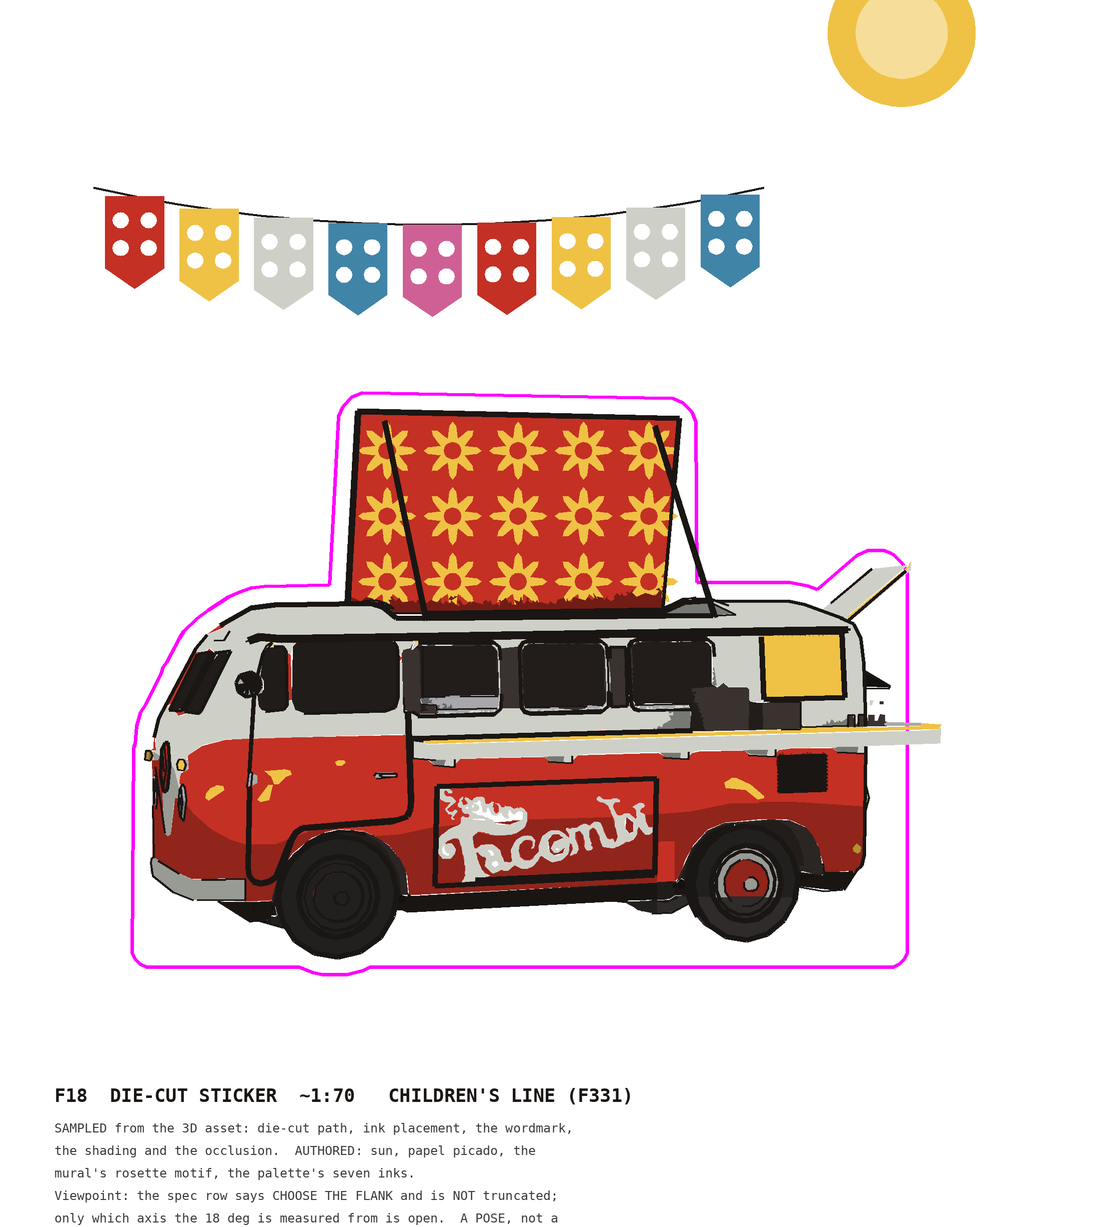
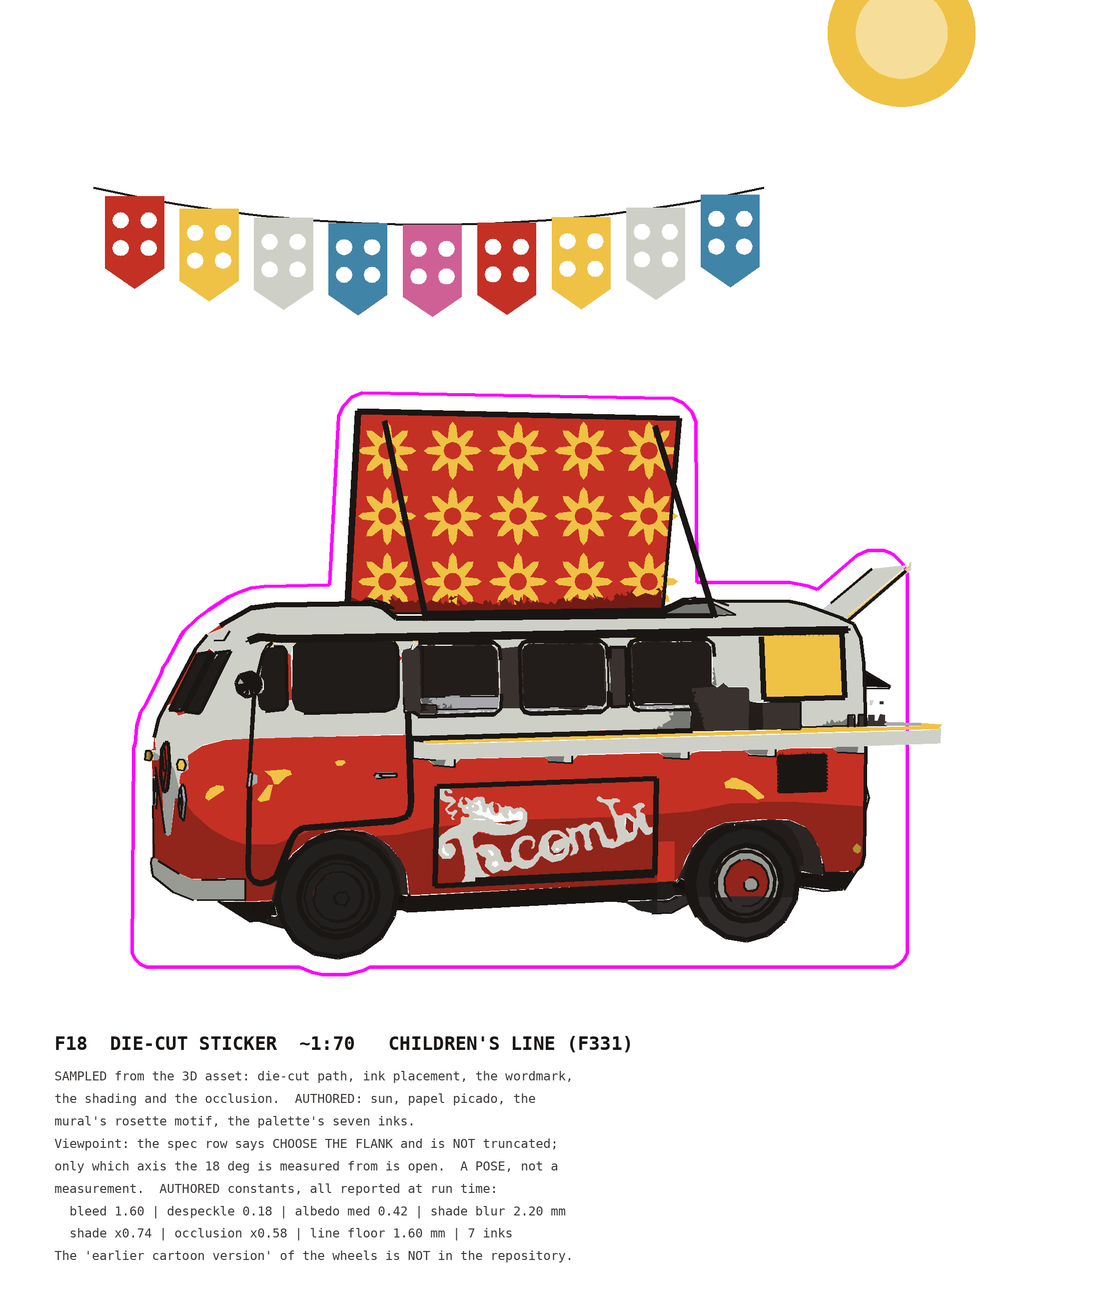
rev 78: the colophon ran off its own sheet, and now a row says so
Adding the seven AUTHORED constants to the artefact's colophon (the rule-17
adversary's finding 9) pushed it past the bottom of the sheet, and nothing
reported it -- an SVG writes text past its own viewBox without complaint.
Caught by cropping the proof and looking (rule 1), immediately after fixing
the thing that caused it.

The sheet height is now DERIVED from the colophon's line count rather than
typed, and W5 asserts every text baseline sits on the sheet.  38 checked,
1 FAILED on both captures -- C4 only, which is F353 and deliberate.

Claude-Session: https://claude.ai/code/session_015xjHsD72SyZjKQzoVV5D8i

Changed region(s): [[0.0311, 0.1239, 0.8702, 1.0], [0.777, 0.031, 0.8702, 0.0929]]

diff --git a/sticker.py b/sticker.py
@@ -875,7 +875,12 @@ def draw(cap, denom, tag, log=log):
     art_w, art_h = W * px_mm, H * px_mm
     pad_top = art_h * 0.42                          # room for sun + bunting
     sheet_w = art_w + 2 * BLEED_MM + 6.0
-    sheet_h = art_h + pad_top + 2 * BLEED_MM + 16.0
+    # the colophon's height is DERIVED from how many lines it has, not typed:
+    # rev 78 added lines to it twice and the second time they ran off the
+    # bottom of the sheet -- caught by cropping the proof and looking (rule 1)
+    COLOPHON_LINES = 8
+    colophon_h = 5.0 + COLOPHON_LINES * 1.9 + 3.0
+    sheet_h = art_h + pad_top + 2 * BLEED_MM + colophon_h
     ox = (sheet_w - art_w) * 0.5
     oy = pad_top + BLEED_MM
 
@@ -1224,7 +1229,7 @@ def draw(cap, denom, tag, log=log):
                                  (64, 132, 168), (206, 96, 150)]})
 
     # --- 7. what is authored, said ON the artefact (F341's standard) ---------
-    ty = sheet_h - 10.6
+    ty = sheet_h - colophon_h + 1.0
     sh.text(ox, ty, "F18  DIE-CUT STICKER  ~1:%.0f   CHILDREN'S LINE (F331)"
             % round(denom), pt=4.4, font="mono-b", tint=1.0)
     lines_ = [
@@ -1525,6 +1530,12 @@ def main(argv):
         ck(root.get("width", "").endswith("mm"),
            "W3 the SVG viewBox is not in millimetres; a cutter cannot use it")
     ck(os.path.getsize(png) > 20000, "W4 the PNG proof is empty or trivial")
+    # W5 -- EVERY text baseline must sit on the sheet.  The colophon ran off
+    # the bottom twice during rev 78 as lines were added to it, and nothing
+    # said so: an SVG happily writes text past its own viewBox.
+    off = [t for t in sh.ops if t[0] == "text" and t[1][1] > geo["sheet"][1] - 0.8]
+    ck(not off, "W5 %d colophon line(s) fall below the sheet -- the artefact "
+                "is printing text off its own edge" % len(off))
 
     log("  wrote %s" % svg)
     log("  wrote %s" % png)
